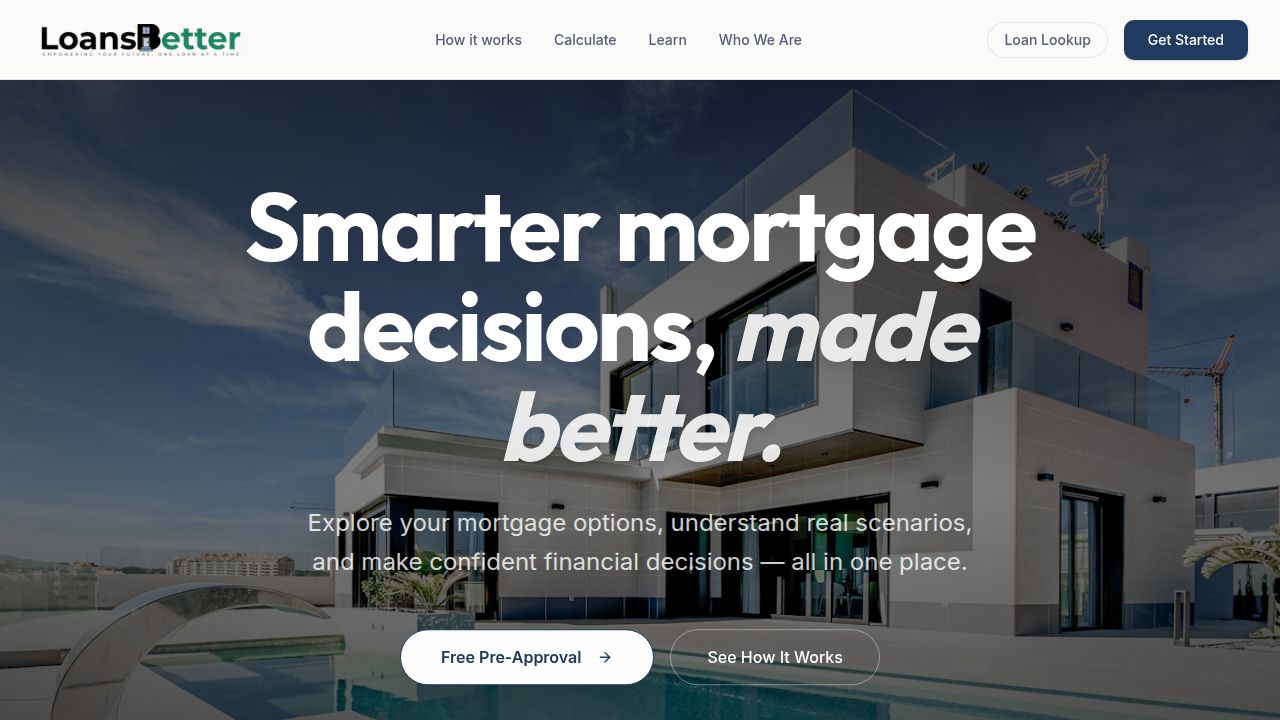
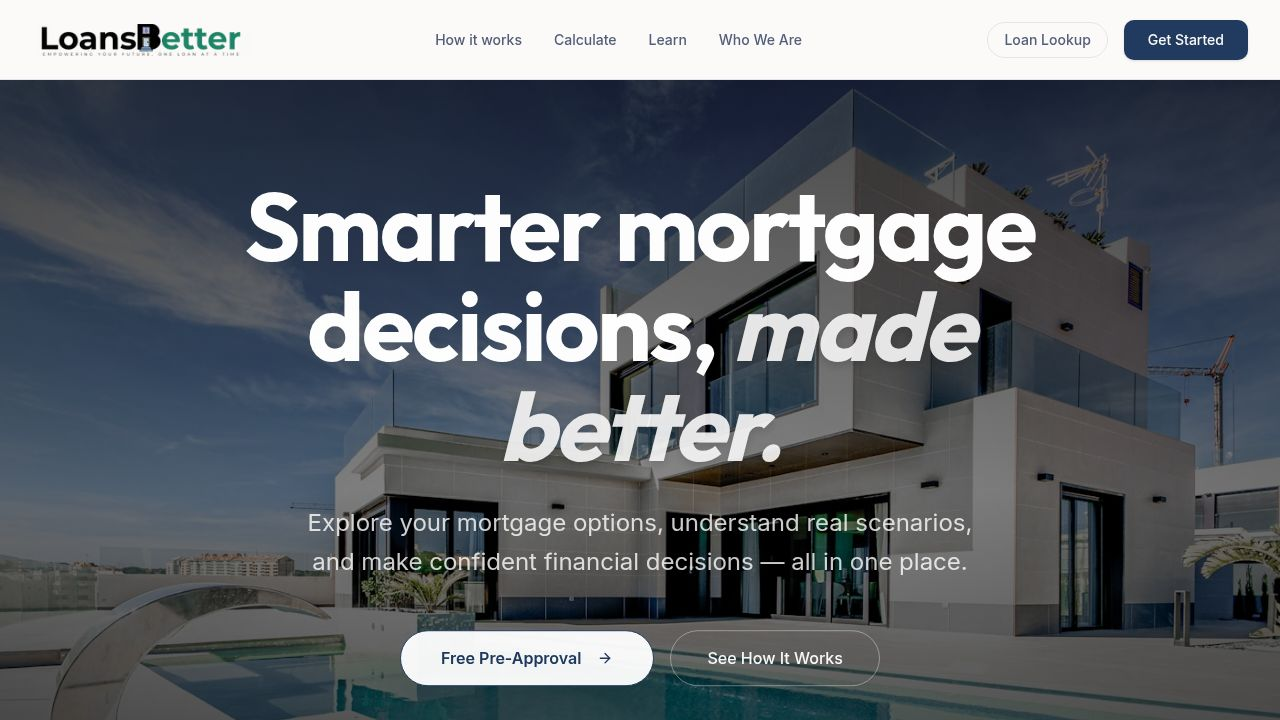
Remove variable rate options from monthly payment calculations
Filter `liveRates` in `Results.tsx` to exclude ARM mortgage products,
showing only fixed-rate options.

Replit-Commit-Author: Agent
Replit-Commit-Session-Id: 2b201e04-ac18-415c-83e9-d50370b0e60a
Replit-Commit-Checkpoint-Type: full_checkpoint
Replit-Commit-Event-Id: afd0bfbc-f4fb-4018-a6c9-1caa038acf8a
Replit-Commit-Screenshot-Url: https://storage.googleapis.com/screenshot-production-us-central1/3ccbac0a-7ddd-4b7d-bb30-793dd865f710/2b201e04-ac18-415c-83e9-d50370b0e60a/1Mf1tj4
Replit-Helium-Checkpoint-Created: true

diff --git a/artifacts/mortgage-clarity/src/pages/Results.tsx b/artifacts/mortgage-clarity/src/pages/Results.tsx
@@ -463,7 +463,7 @@ export default function Results() {
             </div>
             <p className="text-xs text-muted-foreground mb-4">Based on {fmt(answers.homeValue)} home price with {fmt(answers.downPayment)} down.</p>
             <div className="grid sm:grid-cols-2 gap-3">
-              {Object.entries(liveRates).map(([key, info]) => {
+              {Object.entries(liveRates).filter(([key]) => key.endsWith("-fixed")).map(([key, info]) => {
                 const loan = Math.max(0, answers.homeValue - answers.downPayment);
                 const mr = info.rate / 100 / 12;
                 const n = key.startsWith("15") ? 180 : 360;